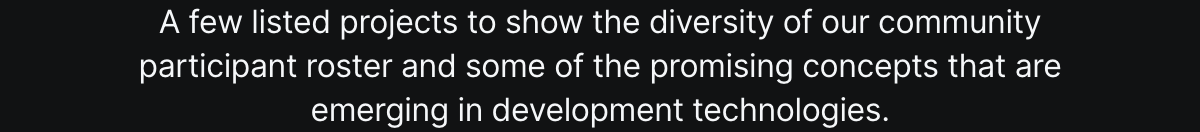
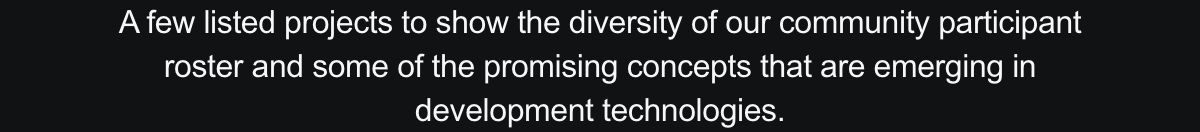
MAR-1600 Added the maxWidth option to "Text" slice

Changed region(s): [[0.0925, 0.0606, 0.925, 0.303], [0.0925, 0.3939, 0.8942, 0.6364], [0.2467, 0.7273, 0.74, 0.9697]]

diff --git a/.slicemachine/assets/client/prismicSlices/pageParts/TextSlice/index.stories.js b/.slicemachine/assets/client/prismicSlices/pageParts/TextSlice/index.stories.js
@@ -18,7 +18,7 @@ export const _DefaultSlice = () => ({
   },
   data() {
     return {
-      mock: {"variation":"default-slice","name":"Default slice","slice_type":"text_slice","items":[],"primary":{"large":false,"text":"A few listed projects to show the diversity of our community participant roster and some of the promising concepts that are emerging in development technologies.","colorTheme":"white","background":"black"},"id":"_DefaultSlice"}
+      mock: {"variation":"default-slice","name":"Default slice","slice_type":"text_slice","items":[],"primary":{"large":false,"text":"A few listed projects to show the diversity of our community participant roster and some of the promising concepts that are emerging in development technologies.","colorTheme":"white","background":"black","maxWidth":5098},"id":"_DefaultSlice"}
     }
   },
   template: '<SliceZone :slices="[mock]" :resolver="resolve" />'
@@ -94,7 +94,7 @@ export const _TitleTextList = () => ({
   },
   data() {
     return {
-      mock: {"variation":"titleTextList","name":"Title + Text + List","slice_type":"text_slice","items":[{"listItem":"whiteboard cutting-edge relationships"},{"listItem":"evolve distributed ROI"},{"listItem":"visualize front-end portals"}],"primary":{"title":"Software <br /> development","text":"A few listed projects to show the diversity of our community participant roster and some of the promising concepts that are emerging in development technologies.","colorTheme":"white","background":"black"},"id":"_TitleTextList"}
+      mock: {"variation":"titleTextList","name":"Title + Text + List","slice_type":"text_slice","items":[{"listItem":"evolve extensible architectures"},{"listItem":"matrix killer solutions"},{"listItem":"engineer transparent web services"}],"primary":{"title":"Software <br /> development","text":"A few listed projects to show the diversity of our community participant roster and some of the promising concepts that are emerging in development technologies.","colorTheme":"white","background":"black"},"id":"_TitleTextList"}
     }
   },
   template: '<SliceZone :slices="[mock]" :resolver="resolve" />'

diff --git a/client/prismicSlices/pageParts/TextSlice/index.vue b/client/prismicSlices/pageParts/TextSlice/index.vue
@@ -2,10 +2,15 @@
   <section
     class="text-slice"
     :style="{
-      backgroundColor: sliceBackground
+      backgroundColor: sliceBackground,
     }"
   >
-    <div class="container">
+    <div
+      class="container"
+      :style="{
+        maxWidth: `${slice.primary.maxWidth}px`,
+      }"
+    >
       <SimpleText
         v-if="slice.variation === 'default-slice'"
         v-bind="slice.primary"
